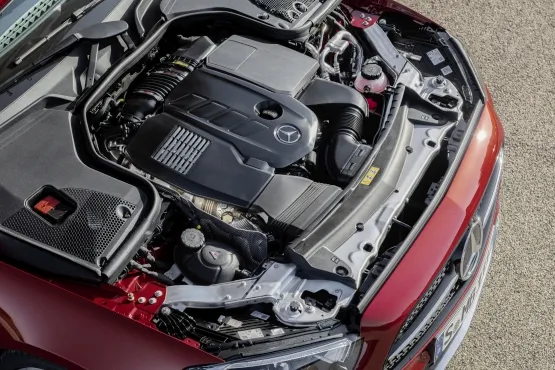
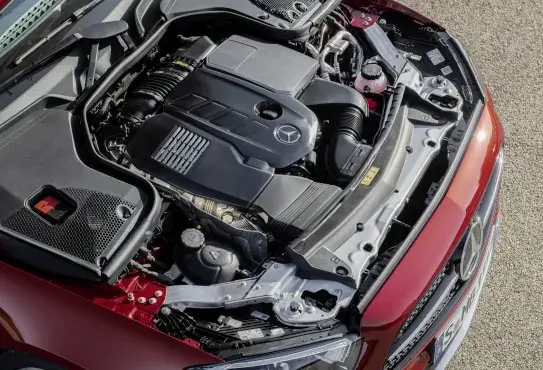
246

diff --git a/pic/ja_mb_img_ce.html b/pic/ja_mb_img_ce.html
@@ -526,7 +526,7 @@
 						<a href="full/ce/c238_f2.jpg"><img loading="lazy" src="style/ce/c238_f2.webp" alt="メルセデス,C238,Eクラス,クーペ,フロント" width="602" height="452"></a>
 						<a href="full/ce/c238_r2.jpg"><img loading="lazy" src="style/ce/c238_r2.webp" alt="メルセデス,C238,Eクラス,クーペ,リヤ" twidth="602" height="452"></a><br>
 						<a href="full/ce/c238_d2.jpg"><img loading="lazy" src="style/ce/c238_d2.webp" alt="メルセデス,C238,Eクラス,クーペ,ダッシュボード" width="661" height="370"></a>
-						<a href="full/ce/c238_m2.jpg"><img loading="lazy" src="style/ce/c238_m2.webp" alt="メルセデス,C238,Eクラス,クーペ,エンジン" height="370"></a>
+						<a href="full/ce/c238_m2.jpg"><img loading="lazy" src="style/ce/c238_m2.webp" alt="メルセデス,C238,Eクラス,クーペ,エンジン" width="543" height="370"></a>
 						<h5>ボディサイズ</h5>
 						<a href="full/ce/c238_a.gif"><img loading="lazy" src="style/ce/c238_a.webp" alt="メルセデス,C238,Eクラス,クーペ,寸法" width="1210" height="732"></a>
 					</section>

diff --git a/pic/mb_img_ce.html b/pic/mb_img_ce.html
@@ -526,7 +526,7 @@
 						<a href="full/ce/c238_f2.jpg"><img loading="lazy" src="style/ce/c238_f2.webp" alt="Mercedes,C238,E-klasse Coupé,Vorderansicht" width="602" height="452"></a>
 						<a href="full/ce/c238_r2.jpg"><img loading="lazy" src="style/ce/c238_r2.webp" alt="Mercedes,C238,E-klasse Coupé,Rückansicht" width="602" height="452"></a><br>
 						<a href="full/ce/c238_d2.jpg"><img loading="lazy" src="style/ce/c238_d2.webp" alt="Mercedes,C238,E-klasse Coupé,Instrumententafel" width="661" height="370"></a>
-						<a href="full/ce/c238_m2.jpg"><img loading="lazy" src="style/ce/c238_m2.webp" alt="Mercedes,C238,E-klasse Coupé,Motor" width="555" height="370"></a>
+						<a href="full/ce/c238_m2.jpg"><img loading="lazy" src="style/ce/c238_m2.webp" alt="Mercedes,C238,E-klasse Coupé,Motor" width="543" height="370"></a>
 						<h5>Abmessungen</h5>
 						<a href="full/ce/c238_a.gif"><img loading="lazy" src="style/ce/c238_a.webp" alt="Mercedes,C238,E-klasse,Coupé,Maße" width="1210" height="732"></a>
 					</section>

diff --git a/pic/en_mb_img_ce.html b/pic/en_mb_img_ce.html
@@ -526,7 +526,7 @@
 						<a href="full/ce/c238_f2.jpg"><img loading="lazy" src="style/ce/c238_f2.webp" alt="Mercedes,C238,E-class Coupe,Front view" width="602" height="452"></a>
 						<a href="full/ce/c238_r2.jpg"><img loading="lazy" src="style/ce/c238_r2.webp" alt="Mercedes,C238,E-class Coupe,Rear view" width="602" height="452"></a><br>
 						<a href="full/ce/c238_d2.jpg"><img loading="lazy" src="style/ce/c238_d2.webp" alt="Mercedes,C238,E-class Coupe,Dashboard" width="661" height="370"></a>
-						<a href="full/ce/c238_m2.jpg"><img loading="lazy" src="style/ce/c238_m2.webp" alt="Mercedes,C238,E-class Coupe,Interior" width="555" height="370"></a>
+						<a href="full/ce/c238_m2.jpg"><img loading="lazy" src="style/ce/c238_m2.webp" alt="Mercedes,C238,E-class Coupe,Engine" width="543" height="370"></a>
 						<h5>Dimensions</h5>
 						<a href="full/ce/c238_a.gif"><img loading="lazy" src="style/ce/c238_a.webp" alt="Mercedes,C238,E-class,Coupe,Dimensions" width="1210" height="732"></a>
 					</section>
